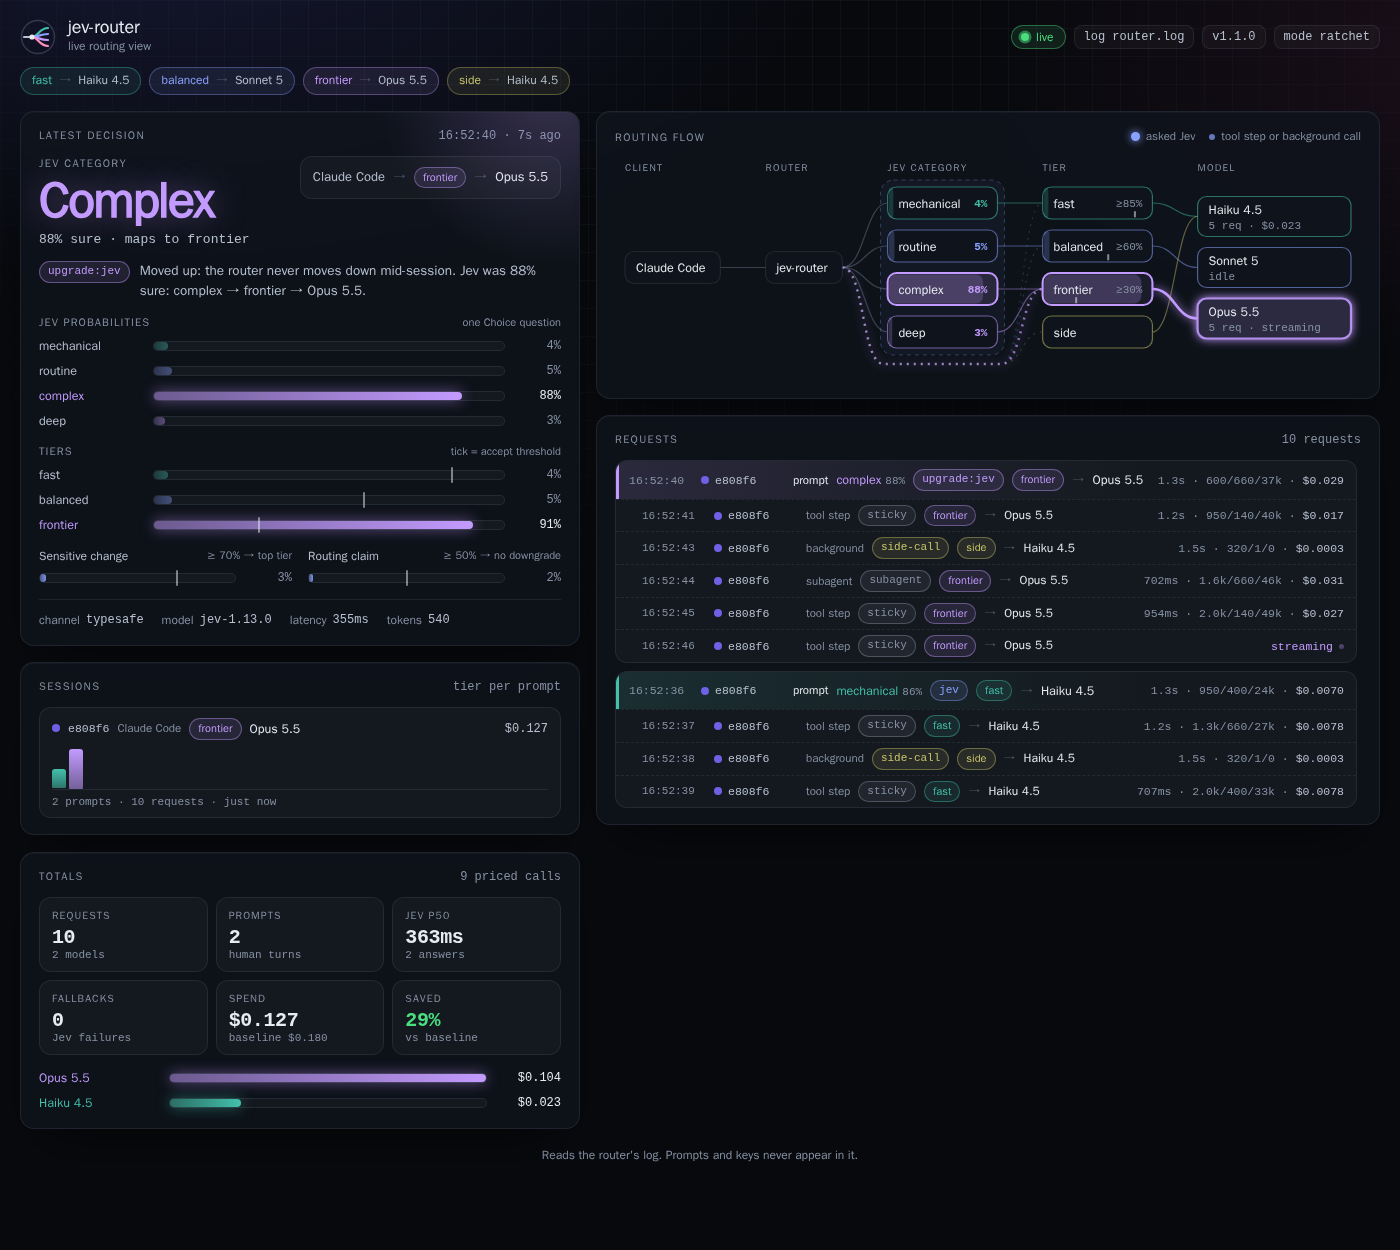
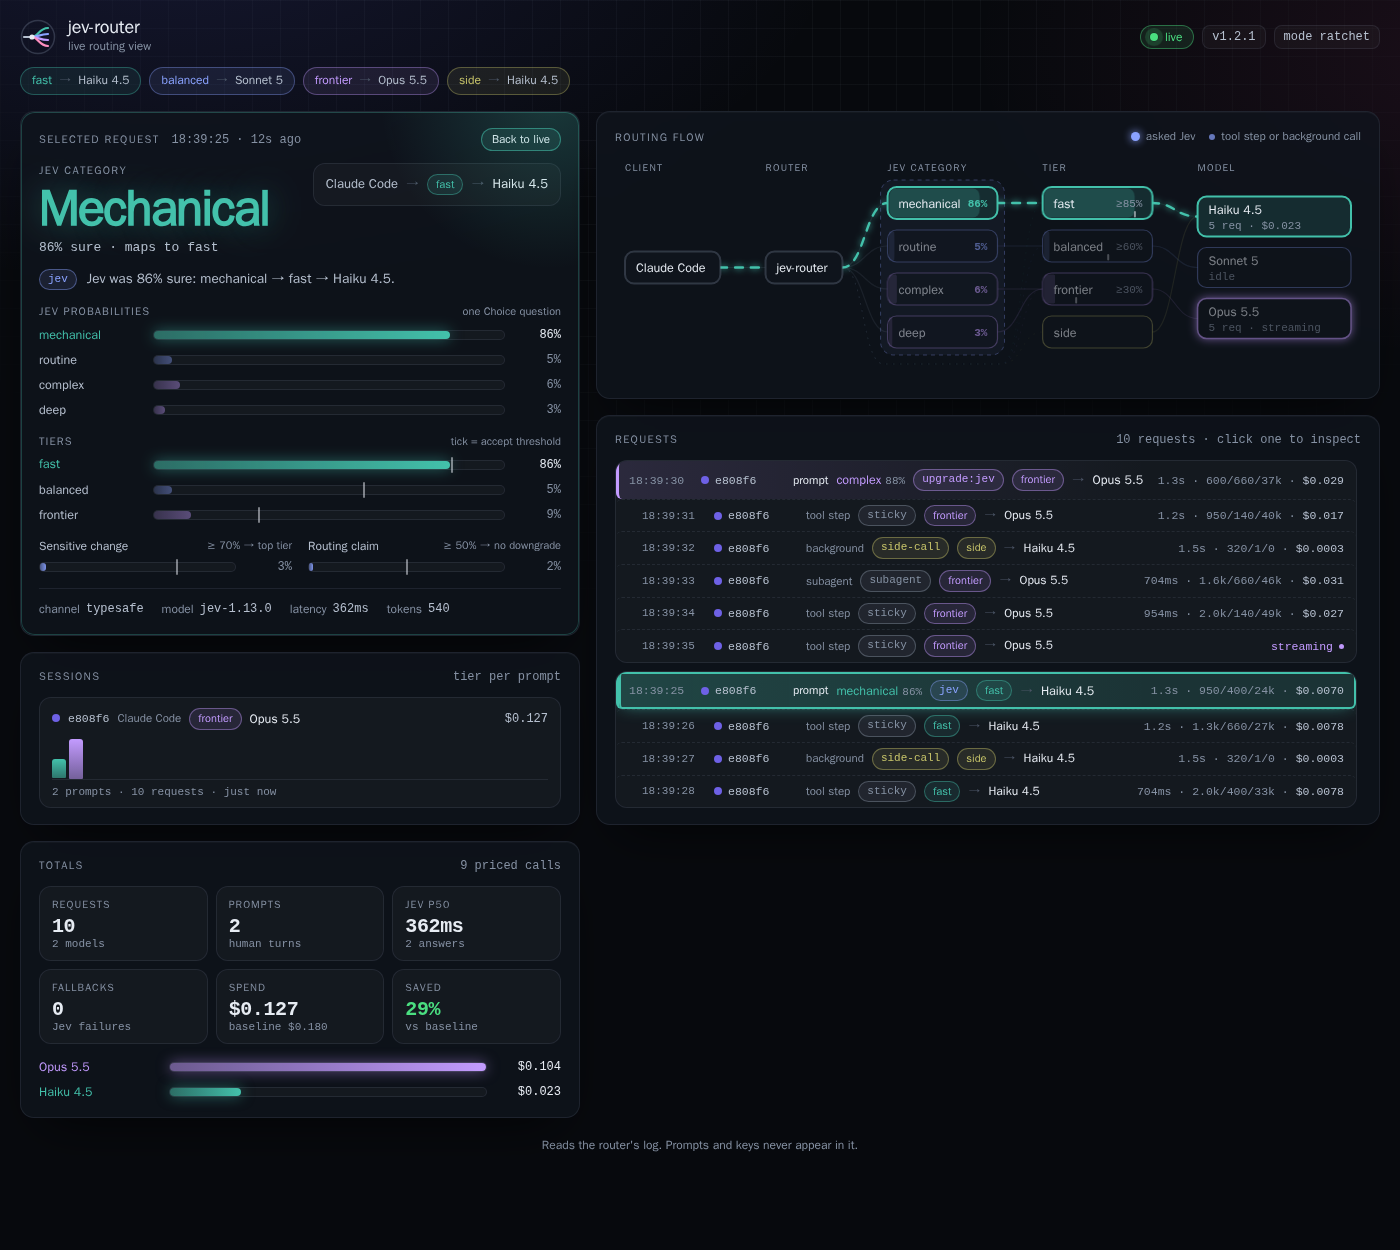
chore(release): 1.3.0
Document request selection in the README with a new screenshot, and list it
in the changelog.

diff --git a/README.md b/README.md
@@ -134,8 +134,8 @@ To set the profile up by hand, see [Codex profile by hand](docs/activation.md#co
 
 The live view shows every decision as it happens, in a browser next to the terminal where Claude Code runs:
 
-![The live view with a Claude-only config: a quick question went to Haiku 4.5, then a harder message moved the
-session up to Opus 5.5, whose tool steps, subagent and background calls follow without asking Jev](docs/live-view.png)
+![The live view with a request selected: Jev rated it mechanical at 86%, and its route through the router, the
+category and the fast tier to Haiku 4.5 streams across the flow while the rest of the graph dims](docs/live-view.png)
 
 - **Latest decision.** Jev's category for the message you just sent, its probabilities against each tier's
   threshold, the guards, and the tier and model the router picked, with the reason in plain words.
@@ -144,6 +144,10 @@ session up to Opus 5.5, whose tool steps, subagent and background calls follow w
 - **Timeline and sessions.** Each request with its status, tokens and cost, grouped under the message that started
   it, and each session's tier per human message, so the ratchet shows.
 - **Totals.** Spend against the baseline model, Jev's latency and its fallbacks.
+- **Any request, on a click.** Click a request in the timeline, or focus it and press Enter, and the decision panel
+  and the flow switch to it: its route streams across the graph in its tier's color. A tool step, subagent or
+  background call shows the prompt whose decision it runs on. Escape, or **Back to live**, follows the traffic
+  again; while following, the flow streams the newest request's route.
 
 ```bash
 jev-router serve --ui 4100    # the router, plus its live view on http://127.0.0.1:4100
@@ -390,7 +394,7 @@ CI runs `npm ci` and `npm run check` on Node.js 22 and 24, and lints the workflo
 
 ## Status
 
-The current release is 1.2.1. The offline suite covers the routing pipeline against mock upstreams and a mock Jev.
+The current release is 1.3.0. The offline suite covers the routing pipeline against mock upstreams and a mock Jev.
 A live check on 2026-09-24 sent Claude Code's full request shape through the router to Anthropic, with Jev mocked:
 Haiku 4.5 (with its `omit` list, and `max_tokens` lowered from Claude Code's 128,000 to 64,000) and Sonnet 5 both
 answered 200, the streams were byte-exact, and the router made one Jev call per human message.

diff --git a/CHANGELOG.md b/CHANGELOG.md
@@ -7,6 +7,17 @@ The format is based on [Keep a Changelog](https://keepachangelog.com/en/1.1.0/),
 
 ## [Unreleased]
 
+## [1.3.0] - 2026-09-24
+
+### Added
+
+- Click a request in the live view (or focus it and press Enter) to inspect it: the decision panel shows its Jev
+  answer, reason and route, and the flow streams its path, from the client through the router, Jev's category and
+  the tier to the model, in its tier's color while the rest of the graph dims. A tool step, subagent or background
+  call shows the prompt whose decision it runs on. Escape or **Back to live** returns to the traffic; the button
+  counts the requests that arrived meanwhile. While following live, the flow streams the newest request's route,
+  faster while it is in flight.
+
 ## [1.2.1] - 2026-09-24
 
 ### Fixed
@@ -85,7 +96,8 @@ First release.
 - Biome, TypeScript (`checkJs`) and markdownlint checks, and CI on Node.js 22 and 24 with actionlint.
 - Documentation: activation, configuration reference, design notes, evaluation, and a Docker Sandboxes guide.
 
-[Unreleased]: https://github.com/dirien/jev-router/compare/v1.2.1...HEAD
+[Unreleased]: https://github.com/dirien/jev-router/compare/v1.3.0...HEAD
+[1.3.0]: https://github.com/dirien/jev-router/compare/v1.2.1...v1.3.0
 [1.2.1]: https://github.com/dirien/jev-router/compare/v1.2.0...v1.2.1
 [1.2.0]: https://github.com/dirien/jev-router/compare/v1.1.0...v1.2.0
 [1.1.0]: https://github.com/dirien/jev-router/compare/v1.0.0...v1.1.0

diff --git a/AGENTS.md b/AGENTS.md
@@ -27,7 +27,7 @@ No build step and no bundler: TypeScript only type-checks the JSDoc.
 | Client examples | `examples/claude-code.env`, `examples/codex/jev.config.toml`, `examples/codex/jev-models.json` (carries Codex's Apache-2.0 system prompt, credited in `NOTICE`) |
 | Sandbox kit | `sbx/jev-router-kit/spec.yaml` |
 | Docs | `README.md` (users), `docs/activation.md`, `docs/configuration.md`, `docs/design.md` (why), `docs/evaluation.md`, `docs/sandbox.md`, `CHANGELOG.md` |
-| Version | `1.2.1`, in `package.json` and in `VERSION` (`src/router.mjs`) |
+| Version | `1.3.0`, in `package.json` and in `VERSION` (`src/router.mjs`) |
 
 ## Commands (verified 2026-09-24)
 

diff --git a/CLAUDE.md b/CLAUDE.md
@@ -27,7 +27,7 @@ No build step and no bundler: TypeScript only type-checks the JSDoc.
 | Client examples | `examples/claude-code.env`, `examples/codex/jev.config.toml`, `examples/codex/jev-models.json` (carries Codex's Apache-2.0 system prompt, credited in `NOTICE`) |
 | Sandbox kit | `sbx/jev-router-kit/spec.yaml` |
 | Docs | `README.md` (users), `docs/activation.md`, `docs/configuration.md`, `docs/design.md` (why), `docs/evaluation.md`, `docs/sandbox.md`, `CHANGELOG.md` |
-| Version | `1.2.1`, in `package.json` and in `VERSION` (`src/router.mjs`) |
+| Version | `1.3.0`, in `package.json` and in `VERSION` (`src/router.mjs`) |
 
 ## Commands (verified 2026-09-24)
 
